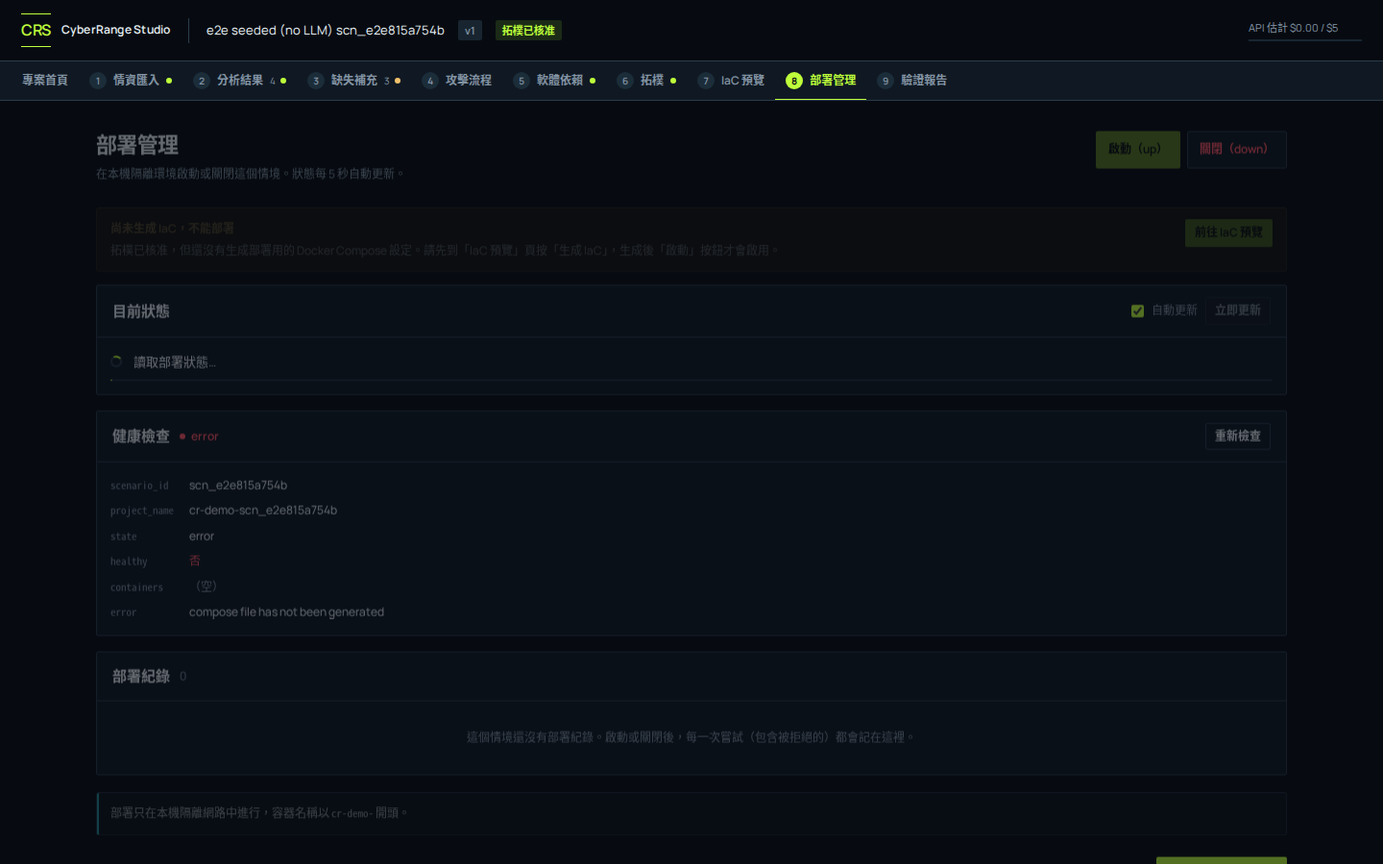
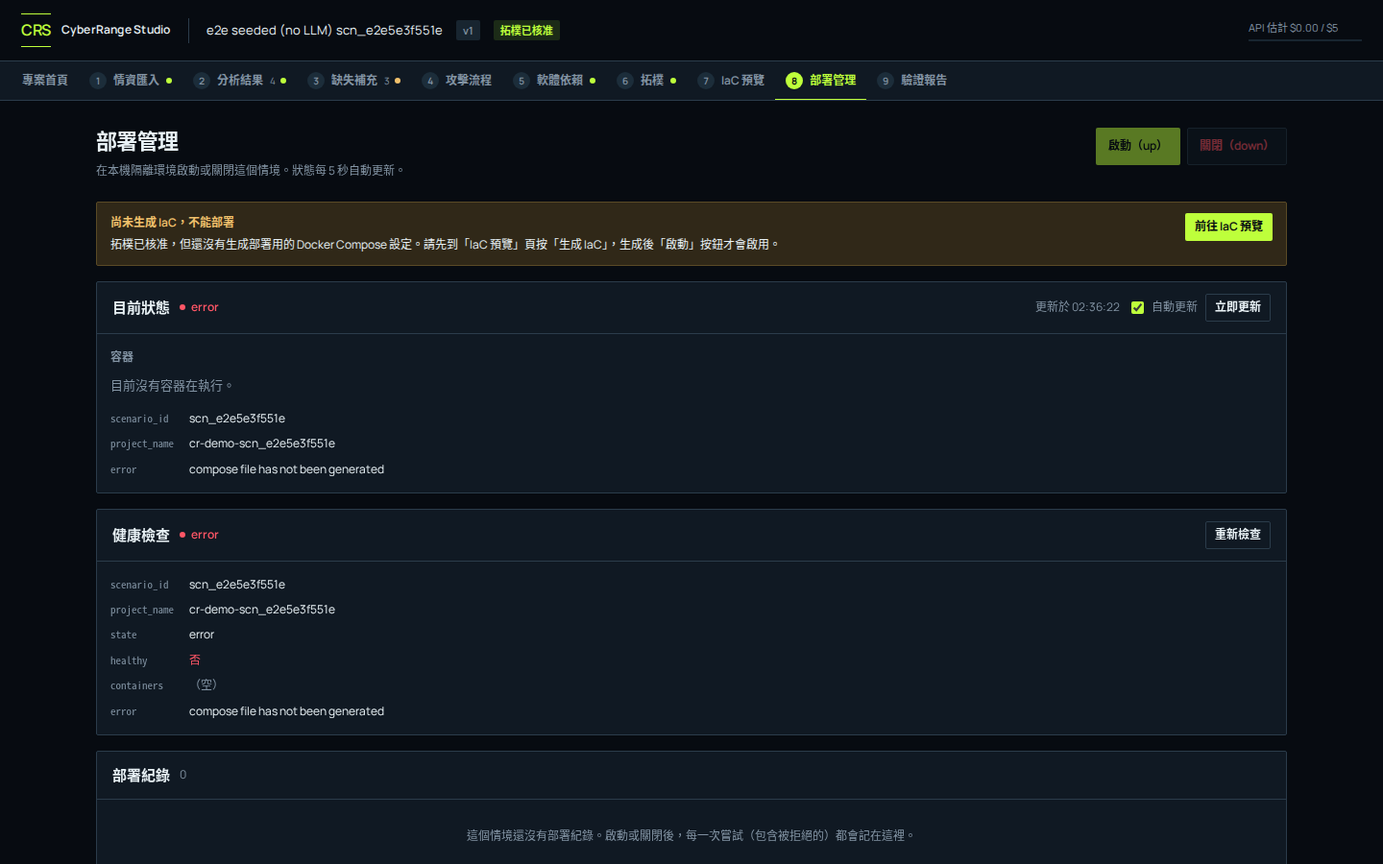
web: explain blocked states and next steps across deps/topology/IaC/deploy/report
- Stage nav missing count now equals the missing page's open-card count.
- Home '＋ 新建情境' opens a blank import form even when a scenario is selected.
- Deps: warn when dependency analysis has not been run; host-reference inconsistency notice
  (placeholder/dangling target hosts, services with no host) with what can and cannot be fixed in the UI.
- Topology: zero-connection warning; planner notes rendered in Chinese with the original underneath.
- IaC: generation refusal shown as readable reasons + per-host table, raw report folded.
- Deploy: down disabled when nothing exists to tear down; record reasons shown instead of '—'.
- Report: run-validation disabled with guidance when nothing is deployed.
- e2e: three more regression tests.

diff --git a/apps/web/src/pages/IacPage.tsx b/apps/web/src/pages/IacPage.tsx
@@ -1,8 +1,9 @@
 import { useState } from "react";
 import type { ScenarioIR } from "@contracts";
-import { api } from "../lib/api";
+import { api, type ApiError } from "../lib/api";
 import { useAction, useLoad } from "../lib/hooks";
 import { useScenario } from "../lib/scenario";
+import { RefIssuesNotice } from "../components/RefIssues";
 import { ApiNotice, Busy, DataView, Empty, NextStep, Notice, PageHead, ScenarioGate } from "../components/ui";
 
 interface IacFile { name: string; content: string }
@@ -34,6 +35,54 @@ function Verdict({ report }: { report: any }) {
     : <Notice kind="err" title="目前不可部署">後端檢查發現阻擋部署的問題，請依下方報告修正後重新生成。</Notice>;
 }
 
+/** The generator's refusal payload ({errors, report}); null for any other failure. */
+function planFailure(e: ApiError | null): { errors: string[]; report: any } | null {
+  const d = e?.data as any;
+  if (!e || (e.status !== 422 && e.status !== 409) || !d || !Array.isArray(d.errors)) return null;
+  return { errors: d.errors.map(String), report: d.report };
+}
+const ERR_RULES: [RegExp, (m: RegExpMatchArray) => string][] = [
+  [/^host (.+) cannot be resolved to a safe local image$/, (m) => `主機 ${m[1]} 找不到可用的安全本機映像（它的服務沒有對應到元件目錄中的元件）。`],
+  [/^host (.+) could not be resolved to a supported component$/, (m) => `主機 ${m[1]} 無法對應到支援的元件。`],
+  [/^host (.+) runtime=vm is not supported by the configured deployment backend: (.*)$/, (m) => `主機 ${m[1]} 需要虛擬機，但這台伺服器的虛擬機後端尚未安裝或設定。`],
+  [/^connection (.+) -> (.+):(\d+) does not match a declared target service$/, (m) => `連線 ${m[1]} → ${m[2]}:${m[3]} 對不上目標主機宣告的任何服務。`],
+  [/^at least one host is required$/, () => "規劃中至少要有一台主機。"],
+];
+const errZh = (t: string): string | null => { for (const [re, f] of ERR_RULES) { const m = t.match(re); if (m) return f(m); } return null; };
+
+function IacFailure({ detail }: { detail: { errors: string[]; report: any } }) {
+  const comps: any[] = Array.isArray(detail.report?.components) ? detail.report.components : [];
+  return (
+    <Notice kind="err" title="IaC 沒有生成：這份規劃目前不可部署">
+      <div data-testid="iac-failure">
+        <div>沒有產生任何 compose 檔，也沒有啟動任何東西。阻擋原因（{detail.errors.length}）：</div>
+        <ul style={{ margin: "4px 0", paddingLeft: 18 }}>
+          {detail.errors.map((e, i) => { const z = errZh(e); return <li key={i}>{z ?? e}{z && <div className="muted" lang="en" style={{ fontSize: 11, overflowWrap: "anywhere" }}>{e}</div>}</li>; })}
+        </ul>
+        {comps.length > 0 && (
+          <div style={{ overflowX: "auto", margin: "8px 0" }}>
+            <table className="tbl">
+              <thead><tr><th>主機</th><th>對應元件</th><th>映像</th><th>可部署</th></tr></thead>
+              <tbody>
+                {comps.map((c, i) => (
+                  <tr key={i}>
+                    <td className="mono">{String(c.host_id ?? "—")}</td>
+                    <td>{c.component ? String(c.component) : <span className="muted">未對應</span>}</td>
+                    <td className="mono">{c.image ? `${c.image}${c.version ? `:${c.version}` : ""}` : <span className="muted">無</span>}</td>
+                    <td className={c.deployable ? "status-PASS" : "status-FAIL"}>{c.deployable ? "是" : "否"}</td>
+                  </tr>
+                ))}
+              </tbody>
+            </table>
+          </div>
+        )}
+        <div>下一步：回「軟體依賴」確認每台主機的服務都有「對應元件」，必要時在「缺失補充」選擇替代方案後重新分析，再重新規劃拓樸、重新生成。</div>
+        {detail.report && <details style={{ marginTop: 6 }}><summary className="muted" style={{ cursor: "pointer" }}>後端原始檢查報告</summary><div style={{ marginTop: 6 }}><DataView data={detail.report} /></div></details>}
+      </div>
+    </Notice>
+  );
+}
+
 function Body({ ir }: { ir: ScenarioIR }) {
   const iac = useLoad(() => api.getIac(ir.id), [ir.id]);
   const gen = useAction(async () => {
@@ -63,7 +112,8 @@ function Body({ ir }: { ir: ScenarioIR }) {
 
       {!ir.environment_plan && <Notice kind="warn" title="尚無環境規劃">IaC 由拓樸規劃生成，建議先完成「拓樸」步驟。</Notice>}
       {gen.busy && <div className="card"><Busy label="生成 IaC 中…" elapsed={gen.elapsed} /></div>}
-      <ApiNotice error={gen.error} what="IaC 生成" />
+      {planFailure(gen.error) ? <IacFailure detail={planFailure(gen.error)!} /> : <ApiNotice error={gen.error} what="IaC 生成" />}
+      {ir.environment_plan && <RefIssuesNotice ir={ir} context="iac" />}
 
       {iac.loading && !iac.data ? (
         <div className="card"><Busy label="讀取已生成的 IaC…" /></div>

diff --git a/apps/web/src/pages/TopologyPage.tsx b/apps/web/src/pages/TopologyPage.tsx
@@ -1,3 +1,4 @@
+import { RefIssuesNotice } from "../components/RefIssues";
 import { useMemo, useState } from "react";
 import { Link, useNavigate } from "react-router-dom";
 import ReactFlow, { Background, BackgroundVariant, Controls, EdgeLabelRenderer, getBezierPath, Handle, MarkerType, Position, type Edge, type EdgeProps, type Node, type NodeProps } from "reactflow";
@@ -105,6 +106,18 @@ function buildGraph(plan: PlanX, drawOnce: boolean): { nodes: Node[]; edges: Edg
   return { nodes, edges };
 }
 
+/** Chinese rendering of the planner's known note shapes; the original stays underneath. Unknown notes are shown unchanged. */
+const NOTE_RULES: [RegExp, (m: RegExpMatchArray) => string][] = [
+  [/^An attacker host was added as a lab scaffold because the IR did not define one\.$/, () => "情境沒有定義攻擊者主機，規劃自動加入一台作為實驗用的攻擊者（不是原文內容）。"],
+  [/^No port is known for service (.+) \((.+)\); it remains unreachable by default\.$/, (m) => `服務 ${m[1]}（${m[2]}）的埠號未知，預設保持不通。可在「缺失補充」補上埠號後重新分析、重新規劃。`],
+  [/^Host (.+) has services from multiple catalogue components; .*$/, (m) => `主機 ${m[1]} 的服務對應到多個不同元件，但一台主機只能選一個映像，請檢查它的映像選擇。`],
+  [/^Services without a resolved host association were left out of host service lists: (.+)\.$/, (m) => `這些服務沒有歸屬主機，未放進任何主機：${m[1]}。詳見上方「主機參照不一致」的說明。`],
+  [/^Connection (.+) to (.+) has no known destination port and was not allowed\.$/, (m) => `${m[1]} 到 ${m[2]} 的連線不知道目的埠號，未開通。`],
+  [/^Actions for host (.+) do not identify one of its multiple services; no inbound service port was opened\.$/, (m) => `針對主機 ${m[1]} 的行為沒有指明是它的哪一個服務，未開通任何連入埠。`],
+  [/^Confirmed dependency (.+) has no uniquely identified destination service port; default deny remains in effect\.$/, (m) => `已確認的依賴 ${m[1]} 無法唯一對應到目的服務埠，維持預設拒絕。`],
+];
+const noteZh = (n: string): string | null => { for (const [re, f] of NOTE_RULES) { const m = n.match(re); if (m) return f(m); } return null; };
+
 function Body({ ir }: { ir: ScenarioIR }) {
   const { absorb, reload } = useScenario();
   const nav = useNavigate();
@@ -144,6 +157,14 @@ function Body({ ir }: { ir: ScenarioIR }) {
       {ranOk && !run.busy && (plan
         ? <Notice kind="info">拓樸規劃完成，結果已更新。重新規劃後需要重新核准。</Notice>
         : <Notice kind="warn" title="規劃完成，但沒有結果">後端沒有回傳環境規劃。請確認「軟體依賴」已有主機與服務。</Notice>)}
+
+      {plan && <RefIssuesNotice ir={ir} context="topology" />}
+      {plan && !(plan.connections?.length) && (
+        <Notice kind="warn" title="這份規劃沒有任何會開通的連線">
+          依這份規劃部署後，主機之間彼此都連不上，攻擊流程無法在環境中進行。常見原因：服務沒有歸屬主機、服務的埠號未知，或流程中的前置依賴尚未確認。
+          請查看頁面下方的「規劃備註」逐條原因；補正後回到本頁重新規劃。核准這份規劃只代表同意「全部不通」，不代表環境可用。
+        </Notice>
+      )}
 
       {!plan || !graph ? (
         <div className="card"><Empty>這個情境還沒有環境規劃。{!(ir.hosts?.length) && "建議先完成「軟體依賴」，再"}按右上角「產生拓樸規劃」。</Empty></div>
@@ -247,7 +268,7 @@ function Body({ ir }: { ir: ScenarioIR }) {
             </div>
 
           {plan.notes?.length ? (
-            <div className="card"><h2>規劃備註</h2><ul style={{ margin: 0, paddingLeft: 18, fontSize: 13 }}>{plan.notes.map((n, i) => <li key={i}>{n}</li>)}</ul></div>
+            <div className="card"><h2>規劃備註</h2><ul style={{ margin: 0, paddingLeft: 18, fontSize: 13 }}>{plan.notes.map((n, i) => { const z = noteZh(n); return <li key={i}>{z ? <>{z}<div className="muted" lang="en" style={{ fontSize: 11 }}>{n}</div></> : n}</li>; })}</ul></div>
           ) : null}
         </>
       )}

diff --git a/apps/web/src/components/RefIssues.tsx b/apps/web/src/components/RefIssues.tsx
@@ -1,0 +1,64 @@
+// Why a plan ends up with excluded services / no connections, and where in the UI to fix it.
+// Everything here is read from the loaded IR; nothing is guessed or repaired silently.
+import { Link } from "react-router-dom";
+import type { ScenarioIR } from "@contracts";
+import { Notice } from "./ui";
+
+export interface RefIssues {
+  /** Actions whose target host id is not one of the scenario's hosts. */
+  danglingActions: { id: string; name: string; ref: string }[];
+  /** Actions aimed at a placeholder host literally called "unknown". */
+  placeholderActions: { id: string; name: string }[];
+  /** Services no host lists, so the planner cannot place them. */
+  unplacedServices: { id: string; name: string }[];
+}
+
+const isPlaceholder = (v?: string) => /^unknown$/i.test((v ?? "").trim());
+
+export function findRefIssues(ir: ScenarioIR): RefIssues {
+  const hosts = ir.hosts ?? [];
+  const hostIds = new Set(hosts.map((h) => h.id));
+  const placed = new Set(hosts.flatMap((h) => h.service_refs ?? []));
+  const named = (a: ScenarioIR["actions"][number]) => ({ id: a.id, name: a.name });
+  return {
+    danglingActions: hosts.length
+      ? ir.actions.filter((a) => a.target_host_ref && !isPlaceholder(a.target_host_ref) && !hostIds.has(a.target_host_ref)).map((a) => ({ ...named(a), ref: a.target_host_ref! }))
+      : [],
+    placeholderActions: ir.actions.filter((a) => isPlaceholder(a.target_host_ref)).map(named),
+    unplacedServices: (ir.services ?? []).filter((s) => !placed.has(s.id)).map((s) => ({ id: s.id, name: s.name })),
+  };
+}
+
+const few = (xs: string[], n = 4) => (xs.length > n ? `${xs.slice(0, n).join("、")} 等 ${xs.length} 項` : xs.join("、"));
+
+/** Shown on the dependency / topology / IaC pages when the IR's host references do not line up. Renders nothing when they do. */
+export function RefIssuesNotice({ ir, context }: { ir: ScenarioIR; context: "deps" | "topology" | "iac" }) {
+  const { danglingActions, placeholderActions, unplacedServices } = findRefIssues(ir);
+  const actionFix = danglingActions.length + placeholderActions.length > 0;
+  if (!actionFix && !unplacedServices.length) return null;
+  const refs = [...new Set(danglingActions.map((a) => a.ref))];
+  return (
+    <Notice kind="warn" title="主機參照不一致：服務會被排除，連線無法開通"
+      action={actionFix ? <Link to="/flow"><button className="small">前往攻擊流程</button></Link> : undefined}>
+      <div data-testid="ref-issues">
+        <ul style={{ margin: "4px 0", paddingLeft: 18 }}>
+          {placeholderActions.length > 0 && (
+            <li>{placeholderActions.length} 個攻擊行為的「目標主機」是未指明的主機（<span className="mono">unknown</span>）：{few(placeholderActions.map((a) => a.name || a.id))}。分析沒有把它們對到主機清單中的任何一台。</li>
+          )}
+          {danglingActions.length > 0 && (
+            <li>{danglingActions.length} 個攻擊行為的「目標主機」指向主機清單裡沒有的名稱（<span className="mono">{few(refs)}</span>）：{few(danglingActions.map((a) => a.name || a.id))}。</li>
+          )}
+          {unplacedServices.length > 0 && (
+            <li>{unplacedServices.length} 個服務沒有歸屬任何主機：{few(unplacedServices.map((s) => s.name || s.id))}。規劃時這些服務不會放進任何主機，也不會為它們開通連線{context === "iac" ? "，IaC 因此可能無法生成" : ""}。</li>
+          )}
+        </ul>
+        {actionFix && (
+          <div>可以補正的部分：到「攻擊流程」點開上述行為，把「目標主機」改選為主機清單中正確的主機並儲存新版本，再回「軟體依賴」重新分析{context !== "deps" && "、到「拓樸」重新規劃並重新核准"}。</div>
+        )}
+        {unplacedServices.length > 0 && (
+          <div style={{ marginTop: 4 }}>目前的限制：畫面上還沒有「指定服務屬於哪台主機」的操作，重新分析也不一定會補上歸屬。服務仍未歸屬時，這個情境無法部署出可用的連線；系統不會自行猜測歸屬，也不會把它顯示成可部署。</div>
+        )}
+      </div>
+    </Notice>
+  );
+}

diff --git a/apps/web/src/pages/DeployPage.tsx b/apps/web/src/pages/DeployPage.tsx
@@ -17,6 +17,23 @@ function stateClass(s: string): string {
   return "status-PARTIAL";
 }
 
+/** Why an attempt ended the way it did, from whatever the audit record kept. Tool output is shown as-is, never reworded. */
+function recordReason(d: any): string | undefined {
+  if (!d || typeof d !== "object") return undefined;
+  if (typeof d.reason === "string" && d.reason) return REASON_ZH[d.reason] ?? d.reason;
+  for (const k of ["error", "stderr"]) {
+    const v = typeof d[k] === "string" ? d[k].trim() : "";
+    if (v) { const line = v.split("\n").filter(Boolean).pop()!; return REASON_ZH[line] ?? line; }
+  }
+  return typeof d.exit_code === "number" && d.exit_code !== 0 ? `結束代碼 ${d.exit_code}` : undefined;
+}
+const REASON_ZH: Record<string, string> = {
+  "topology not approved": "拓樸尚未核准",
+  "approval stale; topology changed since approval": "核准後拓樸已變更，需重新核准",
+  "explicit local PoC approval required": "未取得本機執行的明確同意",
+  "compose file has not been generated": "尚未生成 IaC（沒有 compose 檔）",
+};
+
 function Body({ ir }: { ir: ScenarioIR }) {
   const { reload: reloadIr } = useScenario();
   const status = useLoad(() => api.deployStatus(ir.id), [ir.id]);
@@ -57,13 +74,16 @@ function Body({ ir }: { ir: ScenarioIR }) {
     : null;
   const ACTION: Record<string, string> = { up: "啟動", down: "關閉" };
   const rawRecords: any[] = Array.isArray(records.data?.records) ? records.data.records : [];
-  const history = rawRecords.map((r) => ({ id: r.id, action: r.action, state: r.state, at: r.recorded_at, reason: r.details?.reason }));
+  const history = rawRecords.map((r) => ({ id: r.id, action: r.action, state: r.state, at: r.recorded_at, reason: recordReason(r.details) }));
+  const liveContainers = Array.isArray(containers) ? containers.length : 0;
+  // Nothing was ever generated and nothing is running: a down would only fail and add a failed record.
+  const downBlock = iacMissing && liveContainers === 0 && state !== "running" ? "沒有已生成的部署設定，也沒有容器在執行，無需關閉" : undefined;
 
   return (
     <div className="page">
       <PageHead title="部署管理" desc="在本機隔離環境啟動或關閉這個情境。狀態每 5 秒自動更新。">
         <button className="primary" disabled={busy || !!upBlock} title={upBlock} onClick={() => { if (window.confirm("確定要在本機隔離環境啟動這個情境的容器？")) void up.run(); }}>啟動（up）</button>
-        <button className="danger" disabled={busy} onClick={() => { if (window.confirm("確定要關閉並移除這個情境的部署？")) void down.run(); }}>關閉（down）</button>
+        <button className="danger" disabled={busy || !!downBlock} title={downBlock} onClick={() => { if (window.confirm("確定要關閉並移除這個情境的部署？")) void down.run(); }}>關閉（down）</button>
       </PageHead>
 
       {!approved && (
@@ -149,7 +169,7 @@ function Body({ ir }: { ir: ScenarioIR }) {
                   <td className="nowrap muted">{fmtTime(r.at)}</td>
                   <td>{ACTION[r.action] ?? r.action}</td>
                   <td><span className={stateClass(String(r.state))}>{String(r.state)}</span></td>
-                  <td className="muted">{r.reason ?? "—"}</td>
+                  <td className="muted" style={{ overflowWrap: "anywhere" }}>{r.reason ?? "—"}</td>
                 </tr>
               ))}
             </tbody>

diff --git a/apps/web/src/pages/DepsPage.tsx b/apps/web/src/pages/DepsPage.tsx
@@ -3,6 +3,7 @@ import type { ScenarioIR, ServiceItem } from "@contracts";
 import { api } from "../lib/api";
 import { useAction, useLoad } from "../lib/hooks";
 import { useScenario } from "../lib/scenario";
+import { RefIssuesNotice } from "../components/RefIssues";
 import { ApiNotice, Busy, DataView, Empty, EpistemicBadge, Metric, NextStep, Notice, PageHead, ScenarioGate, SourceTag } from "../components/ui";
 
 function ServiceRow({ s, hosts }: { s: ServiceItem; hosts?: string[] }) {
@@ -43,11 +44,13 @@ function Body({ ir }: { ir: ScenarioIR }) {
   }, [hosts]);
   const substitutes = services.filter((s) => s.is_substitute);
   const has = hosts.length > 0 || services.length > 0;
+  // The dependency analysis stamps a fidelity verdict on the IR; without it, what is listed below came straight from the report analysis.
+  const analysed = (ir as { fidelity?: unknown }).fidelity !== undefined;
 
   return (
     <div className="page">
       <PageHead title="軟體依賴" desc="重建這條攻擊流程需要的主機與軟體，以及它們對應到哪個可部署的元件。標為「替代品」的項目與報告中的原始軟體不同，會影響重現的擬真度。">
-        <button className={has ? "" : "primary"} disabled={run.busy} onClick={() => run.run()}>{has ? "重新分析依賴" : "執行依賴分析"}</button>
+        <button className={analysed ? "" : "primary"} disabled={run.busy} onClick={() => run.run()}>{analysed ? "重新分析依賴" : "執行依賴分析"}</button>
       </PageHead>
 
       {run.busy && <div className="card"><Busy label="分析軟體依賴中…" elapsed={run.elapsed} /></div>}
@@ -55,6 +58,13 @@ function Body({ ir }: { ir: ScenarioIR }) {
       {ranOk && !run.busy && (has
         ? <Notice kind="info">依賴分析完成，結果已更新。</Notice>
         : <Notice kind="warn" title="分析完成，但沒有結果">後端沒有從目前的攻擊流程與補充資訊推導出任何主機或服務。可以回到「缺失補充」補上軟體與版本資訊後再試。</Notice>)}
+
+      {has && !analysed && !run.busy && (
+        <Notice kind="warn" title="尚未執行依賴分析">
+          下方只是情資分析階段擷取到的主機與服務，還沒有對應到可部署的元件，也可能缺少項目。請按右上角「執行依賴分析」；補充缺失或修改攻擊流程之後也要重新分析一次。
+        </Notice>
+      )}
+      {analysed && <RefIssuesNotice ir={ir} context="deps" />}
 
       {!has ? (
         <div className="card"><Empty>這個情境還沒有主機與服務資料。按右上角「執行依賴分析」由後端產生。</Empty></div>

diff --git a/apps/web/src/pages/ReportPage.tsx b/apps/web/src/pages/ReportPage.tsx
@@ -1,4 +1,5 @@
 import { useMemo } from "react";
+import { Link } from "react-router-dom";
 import type { CheckStatus, ScenarioIR, ValidationCheck, ValidationReport } from "@contracts";
 import { api } from "../lib/api";
 import { useAction, useLoad } from "../lib/hooks";
@@ -120,6 +121,10 @@ function FidelityList({ title, cls, items, actionName }: { title: string; cls: s
 
 function Body({ ir }: { ir: ScenarioIR }) {
   const { reload: reloadIr } = useScenario();
+  // Validation probes a running environment; without one the API refuses (「尚未部署」). Unknown status never blocks the button.
+  const deploy = useLoad(() => api.deployStatus(ir.id), [ir.id]);
+  const deployState = typeof deploy.data?.state === "string" ? (deploy.data.state as string) : undefined;
+  const notDeployed = deployState !== undefined && deployState !== "running";
   const remote = useLoad(() => api.getReport(ir.id), [ir.id]);
   const run = useAction(async () => {
     const resp = await api.runValidation(ir.id);
@@ -148,8 +153,16 @@ function Body({ ir }: { ir: ScenarioIR }) {
   return (
     <div className="page">
       <PageHead title="驗證報告" desc="驗證分三層，各自獨立判定：環境建好不代表行為能重現，個別行為重現也不代表整條攻擊鏈成立。所有檢查都是無害的觀察，不執行真正的漏洞利用。">
-        <button className={report ? "" : "primary"} disabled={run.busy} onClick={() => run.run()}>{report ? "重新驗證" : "執行驗證"}</button>
+        <button className={report ? "" : "primary"} disabled={run.busy || notDeployed} title={notDeployed ? "需先在「部署管理」啟動環境" : undefined} onClick={() => run.run()}>{report ? "重新驗證" : "執行驗證"}</button>
       </PageHead>
+
+      {notDeployed && (
+        <Notice kind="warn" title="環境尚未部署，不能執行驗證"
+          action={<Link to="/deploy"><button className="primary small">前往部署管理</button></Link>}>
+          驗證是對執行中的環境逐項檢查。目前部署狀態為 <span className="mono">{deployState}</span>，請先啟動環境。
+          {report ? "下方是先前留下的報告，不代表目前的環境狀態。" : "在此之前沒有任何驗證結果，各層一律視為未測。"}
+        </Notice>
+      )}
 
       {run.busy && <div className="card"><Busy label="驗證中，正在對部署的環境逐項檢查…" elapsed={run.elapsed} /></div>}
       <ApiNotice error={run.error} what="執行驗證" />

diff --git a/apps/web/src/pages/ImportPage.tsx b/apps/web/src/pages/ImportPage.tsx
@@ -1,5 +1,5 @@
 import { useEffect, useRef, useState, type DragEvent } from "react";
-import { useNavigate } from "react-router-dom";
+import { useNavigate, useLocation } from "react-router-dom";
 import { api, ApiError, extractIr, extractScenarioId } from "../lib/api";
 import { useAction } from "../lib/hooks";
 import { useScenario } from "../lib/scenario";
@@ -41,11 +41,13 @@ export function ImportPage() {
 
   // When a scenario is already imported, show its original report for review
   // instead of a blank form. "匯入新報告" switches back to the form.
-  const [forceNew, setForceNew] = useState(false);
+  // The home page's "＋ 新建情境" asks for a blank form explicitly (router state), even while a scenario is selected.
+  const fresh = (useLocation().state as { fresh?: boolean } | null)?.fresh === true;
+  const [forceNew, setForceNew] = useState(fresh);
   const [source, setSource] = useState<Source | null>(null);
   const [sourceState, setSourceState] = useState<"idle" | "loading" | "missing" | "error">("idle");
   useEffect(() => {
-    setForceNew(false);
+    setForceNew(fresh);
     if (!id) { setSource(null); setSourceState("idle"); return; }
     let live = true;
     setSource(null);
@@ -57,7 +59,7 @@ export function ImportPage() {
         setSourceState(e instanceof ApiError && e.kind === "unimplemented" ? "missing" : "error");
       });
     return () => { live = false; };
-  }, [id]);
+  }, [id, fresh]);
 
   const reviewing = !!id && !forceNew;
   // Original PDF of the imported scenario, when one was uploaded (source/file answers 200).

diff --git a/apps/web/src/lib/stages.ts b/apps/web/src/lib/stages.ts
@@ -1,4 +1,5 @@
 import type { ScenarioIR } from "@contracts";
+import { openCardCount } from "../pages/MissingPage";
 import { isPlanApproved } from "./plan";
 import type { Runtime } from "./scenario";
 
@@ -13,7 +14,7 @@ export function stageState(key: string, ir: ScenarioIR | null, runtime: Runtime 
     case "analysis": return ir.actions.length ? { dot: "done", text: String(ir.actions.length), title: `${ir.actions.length} 個攻擊行為` } : todo;
     case "missing": {
       const items = ir.missing_items ?? [];
-      const open = items.filter((m) => m.status === "open").length;
+      const open = openCardCount(ir);
       if (!items.length) return todo;
       return open ? { dot: "warn", text: String(open), title: `${open} 項待補充` } : { dot: "done", title: "缺失皆已處理" };
     }

diff --git a/apps/web/src/pages/MissingPage.tsx b/apps/web/src/pages/MissingPage.tsx
@@ -447,6 +447,11 @@ function buildGroups(ir: ScenarioIR, namer: Namer): Group[] {
   return groups.sort((a, b) => a.tier.rank - b.tier.rank || stepCount(b) - stepCount(a));
 }
 
+/** Open cards as the page shows them (identical questions are merged). The stage nav uses this so both numbers agree. */
+export function openCardCount(ir: ScenarioIR): number {
+  return buildGroups(ir, makeNamer(ir)).filter((g) => g.items[0].status === "open").length;
+}
+
 const clip = (q: string, n = 160) => (q.length > n ? `${q.slice(0, n)}…` : q);
 
 function ItemCard({ group, ir, scenarioId, onDone, hasPdf, locate, located }: {

diff --git a/apps/web/src/pages/HomePage.tsx b/apps/web/src/pages/HomePage.tsx
@@ -113,7 +113,7 @@ export function HomePage() {
   return (
     <div className="page">
       <PageHead title="專案首頁" desc="從一份威脅情資報告出發，依序完成分析、補充、流程編輯、環境規劃、部署與驗證。每個階段完成後仍可回頭修改。">
-        <Link to="/import"><button className="primary">＋ 新建情境</button></Link>
+        <Link to="/import" state={{ fresh: true }}><button className="primary">＋ 新建情境</button></Link>
       </PageHead>
 
       <RangeLine />
